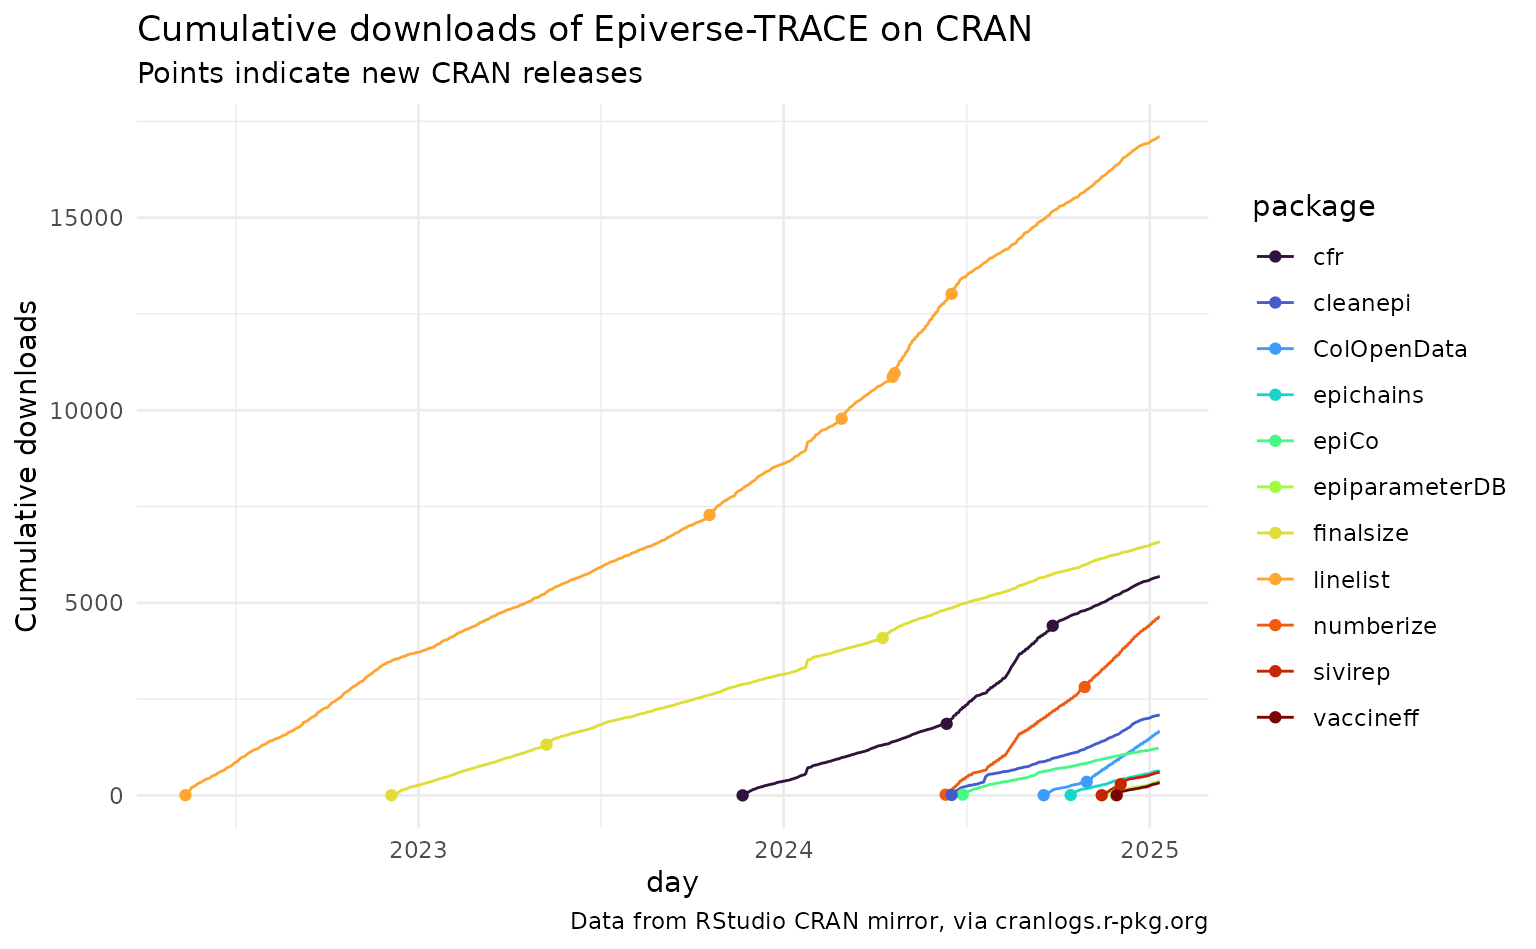
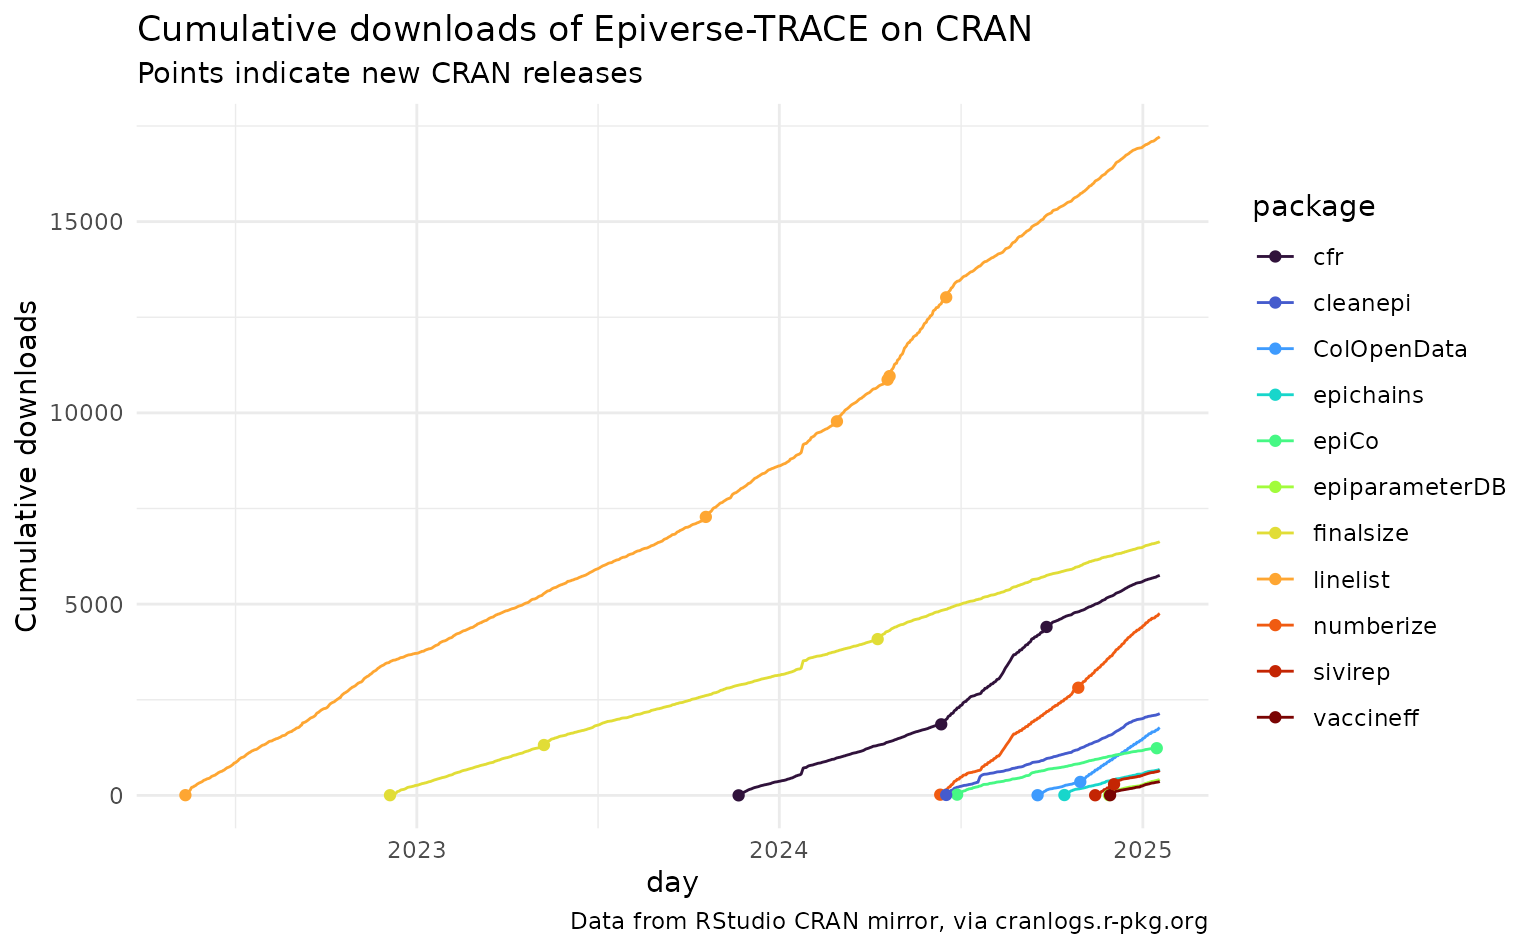
Deploying to gh-pages from @ epiverse-trace/etstats@216cbb17307c01a223db8e353a9215c8da767461 🚀

diff --git a/articles/cran-statistics.html b/articles/cran-statistics.html
@@ -74,7 +74,7 @@
 
       <h1>CRAN statistics</h1>
             
-            <h4 data-toc-skip class="date">2025-01-13</h4>
+            <h4 data-toc-skip class="date">2025-01-20</h4>
       
       <small class="dont-index">Source: <a href="https://github.com/epiverse-trace/etstats/blob/main/vignettes/cran-statistics.Rmd" class="external-link"><code>vignettes/cran-statistics.Rmd</code></a></small>
       <div class="d-none name"><code>cran-statistics.Rmd</code></div>
@@ -84,23 +84,23 @@
     
 <p>We currently have 11 Epiverse-TRACE packages on CRAN:</p>
 <ul>
-<li><a href="https://cran.r-project.org/package=epiCo" class="external-link">cfr</a></li>
-<li><a href="https://cran.r-project.org/package=epichains" class="external-link">cleanepi</a></li>
-<li><a href="https://cran.r-project.org/package=epiparameterDB" class="external-link">ColOpenData</a></li>
-<li><a href="https://cran.r-project.org/package=cfr" class="external-link">epichains</a></li>
-<li><a href="https://cran.r-project.org/package=linelist" class="external-link">epiCo</a></li>
-<li><a href="https://cran.r-project.org/package=vaccineff" class="external-link">epiparameterDB</a></li>
-<li><a href="https://cran.r-project.org/package=sivirep" class="external-link">finalsize</a></li>
-<li><a href="https://cran.r-project.org/package=ColOpenData" class="external-link">linelist</a></li>
-<li><a href="https://cran.r-project.org/package=numberize" class="external-link">numberize</a></li>
-<li><a href="https://cran.r-project.org/package=cleanepi" class="external-link">sivirep</a></li>
-<li><a href="https://cran.r-project.org/package=finalsize" class="external-link">vaccineff</a></li>
+<li><a href="https://cran.r-project.org/package=finalsize" class="external-link">cfr</a></li>
+<li><a href="https://cran.r-project.org/package=epiCo" class="external-link">cleanepi</a></li>
+<li><a href="https://cran.r-project.org/package=epichains" class="external-link">ColOpenData</a></li>
+<li><a href="https://cran.r-project.org/package=epiparameterDB" class="external-link">epichains</a></li>
+<li><a href="https://cran.r-project.org/package=cfr" class="external-link">epiCo</a></li>
+<li><a href="https://cran.r-project.org/package=linelist" class="external-link">epiparameterDB</a></li>
+<li><a href="https://cran.r-project.org/package=vaccineff" class="external-link">finalsize</a></li>
+<li><a href="https://cran.r-project.org/package=sivirep" class="external-link">linelist</a></li>
+<li><a href="https://cran.r-project.org/package=ColOpenData" class="external-link">numberize</a></li>
+<li><a href="https://cran.r-project.org/package=numberize" class="external-link">sivirep</a></li>
+<li><a href="https://cran.r-project.org/package=cleanepi" class="external-link">vaccineff</a></li>
 </ul>
-<p>In total, Epiverse-TRACE packages on CRAN have been downloaded 40892
+<p>In total, Epiverse-TRACE packages on CRAN have been downloaded 41675
 times.</p>
 <p>Below is a visualization of the breakdown of this grand total by
 package over time.</p>
-<p><img src="cran-statistics_files/figure-html/unnamed-chunk-7-1.png" alt="Cumulative downloads of Epiverse-TRACE on CRAN (epiCo, epichains, epiparameterDB, cfr, linelist, vaccineff, sivirep, ColOpenData, numberize, cleanepi, finalsize)" width="768"></p>
+<p><img src="cran-statistics_files/figure-html/unnamed-chunk-7-1.png" alt="Cumulative downloads of Epiverse-TRACE on CRAN (finalsize, epiCo, epichains, epiparameterDB, cfr, linelist, vaccineff, sivirep, ColOpenData, numberize, cleanepi)" width="768"></p>
 <table class="table">
 <thead><tr class="header">
 <th align="left">package</th>
@@ -115,84 +115,84 @@ package over time.</p>
 <td align="right">260</td>
 <td align="right">2881</td>
 <td align="right">3336</td>
-<td align="right">102</td>
+<td align="right">157</td>
 </tr>
 <tr class="even">
 <td align="left">linelist</td>
 <td align="right">3712</td>
 <td align="right">4898</td>
 <td align="right">8326</td>
-<td align="right">163</td>
+<td align="right">282</td>
 </tr>
 <tr class="odd">
 <td align="left">cfr</td>
 <td align="right">NA</td>
 <td align="right">364</td>
 <td align="right">5216</td>
-<td align="right">104</td>
+<td align="right">173</td>
 </tr>
 <tr class="even">
 <td align="left">ColOpenData</td>
 <td align="right">NA</td>
 <td align="right">NA</td>
 <td align="right">1445</td>
-<td align="right">215</td>
+<td align="right">327</td>
 </tr>
 <tr class="odd">
 <td align="left">cleanepi</td>
 <td align="right">NA</td>
 <td align="right">NA</td>
 <td align="right">2003</td>
-<td align="right">83</td>
+<td align="right">136</td>
 </tr>
 <tr class="even">
 <td align="left">epiCo</td>
 <td align="right">NA</td>
 <td align="right">NA</td>
 <td align="right">1169</td>
-<td align="right">52</td>
+<td align="right">115</td>
 </tr>
 <tr class="odd">
 <td align="left">epichains</td>
 <td align="right">NA</td>
 <td align="right">NA</td>
 <td align="right">560</td>
-<td align="right">78</td>
+<td align="right">125</td>
 </tr>
 <tr class="even">
 <td align="left">epiparameterDB</td>
 <td align="right">NA</td>
 <td align="right">NA</td>
 <td align="right">269</td>
-<td align="right">100</td>
+<td align="right">151</td>
 </tr>
 <tr class="odd">
 <td align="left">numberize</td>
 <td align="right">NA</td>
 <td align="right">NA</td>
 <td align="right">4388</td>
-<td align="right">244</td>
+<td align="right">367</td>
 </tr>
 <tr class="even">
 <td align="left">sivirep</td>
 <td align="right">NA</td>
 <td align="right">NA</td>
 <td align="right">515</td>
-<td align="right">84</td>
+<td align="right">136</td>
 </tr>
 <tr class="odd">
 <td align="left">vaccineff</td>
 <td align="right">NA</td>
 <td align="right">NA</td>
 <td align="right">243</td>
-<td align="right">82</td>
+<td align="right">121</td>
 </tr>
 <tr class="even">
 <td align="left">Total</td>
 <td align="right">3972</td>
 <td align="right">8143</td>
 <td align="right">27470</td>
-<td align="right">1307</td>
+<td align="right">2090</td>
 </tr>
 </tbody>
 </table></main>

diff --git a/articles/github-statistics.html b/articles/github-statistics.html
@@ -74,7 +74,7 @@
 
       <h1>GitHub statistics</h1>
             
-            <h4 data-toc-skip class="date">2025-01-13</h4>
+            <h4 data-toc-skip class="date">2025-01-20</h4>
       
       <small class="dont-index">Source: <a href="https://github.com/epiverse-trace/etstats/blob/main/vignettes/github-statistics.Rmd" class="external-link"><code>vignettes/github-statistics.Rmd</code></a></small>
       <div class="d-none name"><code>github-statistics.Rmd</code></div>
@@ -85,7 +85,7 @@
 <div class="section level2">
 <h2 id="github-followers">GitHub followers<a class="anchor" aria-label="anchor" href="#github-followers"></a>
 </h2>
-<p>Our Epiverse-TRACE GitHub organization currently has 181
+<p>Our Epiverse-TRACE GitHub organization currently has 183
 followers.</p>
 </div>
 <div class="section level2">
